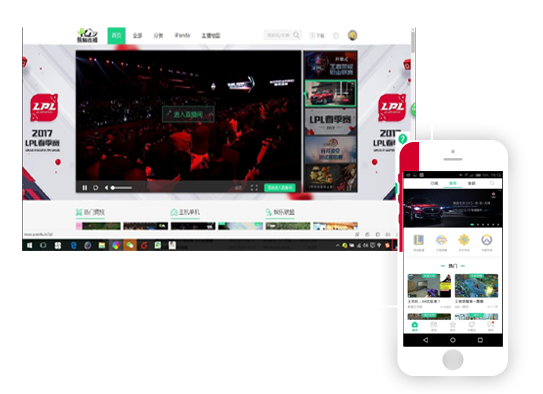
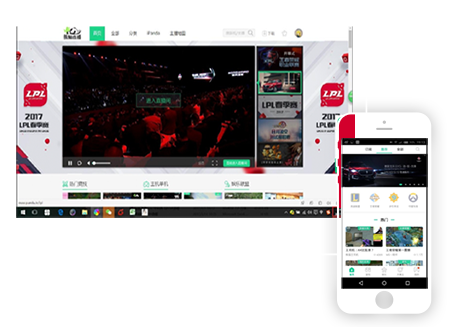
更新

diff --git a/borgwardback/css/style.css b/borgwardback/css/style.css
@@ -1067,10 +1067,10 @@ opacity: 1;
 }
 
 .page8 .mob{
-  width: 12rem;
-  left: 1.5rem;
+  width: 11.275rem;
+  left: 1.92rem;
   position: absolute;
-  top: 11.3rem;
+  top: 11.5rem;
 }
 
 .page8 .mt{
